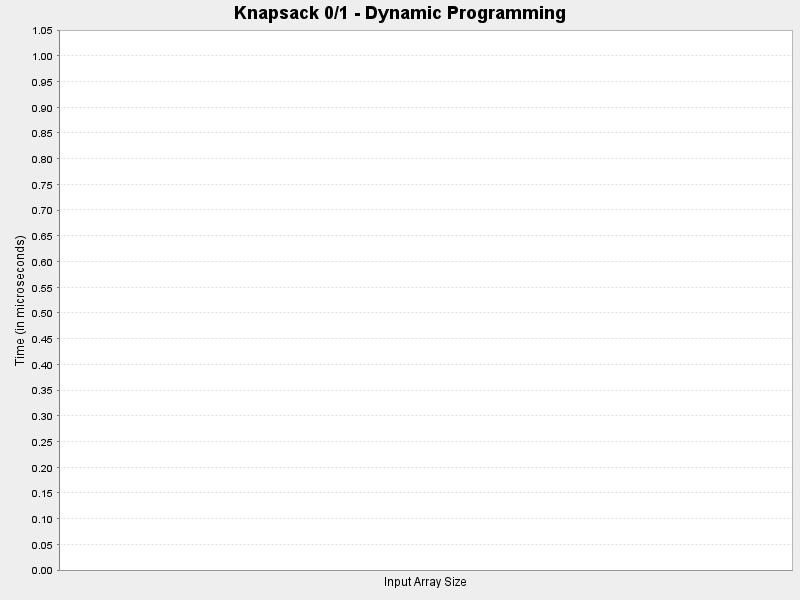
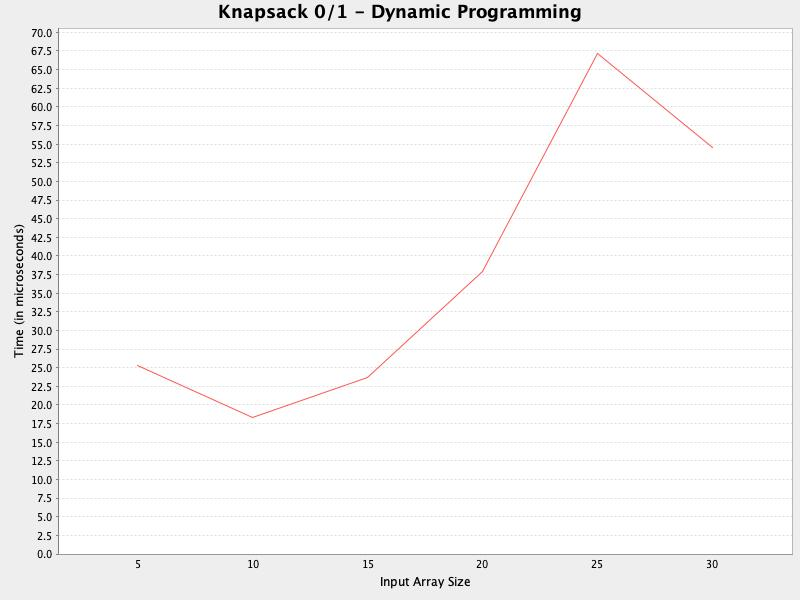
cleaned up a few inconsistencies in my brute force method, and added a test for my brute force method

diff --git a/src/FractionalKnapsack/Main.java b/src/FractionalKnapsack/Main.java
@@ -50,7 +50,7 @@ public class Main {
         times.add(FractionalKnapsack.BruteForce.knapSack(knapsack15.getValues(), knapsack15.getWeights(), knapsack15.getMaxWeight(), knapsack15.getTotalItems(), knapsack15.getKnapsackNumber()));
         times.add(FractionalKnapsack.BruteForce.knapSack(knapsack20.getValues(), knapsack20.getWeights(), knapsack20.getMaxWeight(), knapsack20.getTotalItems(), knapsack20.getKnapsackNumber()));
         times.add(FractionalKnapsack.BruteForce.knapSack(knapsack25.getValues(), knapsack25.getWeights(), knapsack25.getMaxWeight(), knapsack25.getTotalItems(), knapsack25.getKnapsackNumber()));
-        times.add(FractionalKnapsack.BruteForce.knapSack(knapsack5.getValues(), knapsack30.getWeights(), knapsack30.getMaxWeight(), knapsack30.getTotalItems(), knapsack30.getKnapsackNumber()));
+        times.add(FractionalKnapsack.BruteForce.knapSack(knapsack30.getValues(), knapsack30.getWeights(), knapsack30.getMaxWeight(), knapsack30.getTotalItems(), knapsack30.getKnapsackNumber()));
 
 
         //create line chart, clear the array list for the next set of times
@@ -68,7 +68,7 @@ public class Main {
         times.add(FractionalKnapsack.Greedy.knapSack(knapsack15.getValues(), knapsack15.getWeights(), knapsack15.getMaxWeight(), knapsack15.getTotalItems(), knapsack15.getKnapsackNumber()));
         times.add(FractionalKnapsack.Greedy.knapSack(knapsack20.getValues(), knapsack20.getWeights(), knapsack20.getMaxWeight(), knapsack20.getTotalItems(), knapsack20.getKnapsackNumber()));
         times.add(FractionalKnapsack.Greedy.knapSack(knapsack25.getValues(), knapsack25.getWeights(), knapsack25.getMaxWeight(), knapsack25.getTotalItems(), knapsack25.getKnapsackNumber()));
-        times.add(FractionalKnapsack.Greedy.knapSack(knapsack5.getValues(), knapsack30.getWeights(), knapsack30.getMaxWeight(), knapsack30.getTotalItems(), knapsack30.getKnapsackNumber()));
+        times.add(FractionalKnapsack.Greedy.knapSack(knapsack30.getValues(), knapsack30.getWeights(), knapsack30.getMaxWeight(), knapsack30.getTotalItems(), knapsack30.getKnapsackNumber()));
 
         //create line chart, clear the array list for the next set of times
         fracKGreedyChart.lineChart(times, "./images/fracK_greedy.jpg");
@@ -79,6 +79,12 @@ public class Main {
          */
 
         //TODO Mycole's method calls here
+        times.add(FractionalKnapsack.Dynamic.fractionalKnapsack(knapsack5.getValues(), knapsack5.getWeights(), knapsack5.getMaxWeight(), knapsack5.getKnapsackNumber()));
+        times.add(FractionalKnapsack.Dynamic.fractionalKnapsack(knapsack10.getValues(), knapsack10.getWeights(), knapsack10.getMaxWeight(), knapsack10.getKnapsackNumber()));
+        times.add(FractionalKnapsack.Dynamic.fractionalKnapsack(knapsack15.getValues(), knapsack15.getWeights(), knapsack15.getMaxWeight(), knapsack15.getKnapsackNumber()));
+        times.add(FractionalKnapsack.Dynamic.fractionalKnapsack(knapsack20.getValues(), knapsack20.getWeights(), knapsack20.getMaxWeight(), knapsack20.getKnapsackNumber()));
+        times.add(FractionalKnapsack.Dynamic.fractionalKnapsack(knapsack25.getValues(), knapsack25.getWeights(), knapsack25.getMaxWeight(), knapsack25.getKnapsackNumber()));
+        times.add(FractionalKnapsack.Dynamic.fractionalKnapsack(knapsack30.getValues(), knapsack30.getWeights(), knapsack30.getMaxWeight(), knapsack30.getKnapsackNumber()));
 
         fracKDPChart.lineChart(times, "./images/fracK_dp.jpg");
         times.clear();

diff --git a/src/FractionalKnapsack/Dynamic.java b/src/FractionalKnapsack/Dynamic.java
@@ -36,11 +36,22 @@ public class Dynamic {
         /**
          * Finds the maximum achievable value for the fractional knapsack problem.
          *
-         * @param items An array of Item objects representing the potential items for the knapsack.
+         * @param values An array of Item objects representing the potential items for the knapsack.
          * @param capacity The total weight capacity of the knapsack.
          * @return The maximum value that can be obtained within the weight constraint.
          */
-        public static double fractionalKnapsack(Item[] items, int capacity) {
+        public static double fractionalKnapsack(int[] values, int[] weights, int capacity, int knapsackNumber) {
+            System.out.println("------------Brute Force 01Knapsack for " + weights.length + " items------------");
+        System.out.println("Knapsack Number: " + knapsackNumber);
+        System.out.println("Values in this knapsack are: " + Arrays.toString(values));
+        System.out.println("Weights for this knapsack are: " + Arrays.toString(weights));
+
+        double startTime = System.nanoTime();
+            Item[] items = new Item[weights.length];
+
+            for(int x =0; x < weights.length; x++){
+                items[x] = new Item(values[x], weights[x]);
+            }
             // Sort items based on value-to-weight ratio in descending order
             Arrays.sort(items, Comparator.comparing((Item item) -> item.value / (double) item.weight).reversed());
 
@@ -60,10 +71,38 @@ public class Dynamic {
                 }
             }
 
-            return dp[numItems][capacity]; // Here we have the optimal value
+            double answer = dp[numItems][capacity];
+
+            double endTime = System.nanoTime();
+            double timeTaken = (endTime - startTime) / 1000;
+
+            System.out.println("~~~Solution~~~");
+        System.out.println("Max weight: " + capacity);
+        System.out.println("Total Weight = ");
+        System.out.println("Total Profit = ");
+        System.out.println();
+
+            return timeTaken; // Here we have the optimal value
         }
 
 
 
 
 }
+//System.out.println(“------------Brute Force 01Knapsack for ” + weights.length + ” items------------“);
+//        System.out.println(“Knapsack Number: ” + knapsackNumber);
+//        System.out.println(“Values in this knapsack are: ” + Arrays.toString(values));
+//        System.out.println(“Weights for this knapsack are: ” + Arrays.toString(weights));
+//        System.out.println(“~~~Solution~~~“);
+//        System.out.println(“Max weight: ” + capacity);
+//        System.out.println(“Total Weight = ” + totalWeight);
+//        System.out.println(“Total Profit = ” + totalValue);
+//        System.out.println();
+
+
+
+
+
+
+
+

diff --git a/src/Knapsack01/Dynamic.java b/src/Knapsack01/Dynamic.java
@@ -11,7 +11,10 @@ public class Dynamic {
      * @return The maximum value that can be achieved within the given weight limit.
      * @author Mycole Brown
      */
-    public static int knapSack(int W, int wt[], int val[], int n) {
+    public static double knapSack(int W, int wt[], int val[], int n) {
+
+        double startTime = System.nanoTime();
+
         // Table to store the maximum value that can be achieved using the first i items and weight j
         int dp[][] = new int[n + 1][W + 1];
 
@@ -28,11 +31,37 @@ public class Dynamic {
                     dp[i][w] = dp[i - 1][w];
             }
         }
-
         // The last cell of the table contains the answer
-        return dp[n][W];
+        int answer = dp[n][W];
+
+        double endTime = System.nanoTime();
+        double timeTaken = (endTime - startTime) / 1000;
+
+        return timeTaken;
     }
 
 
     }
+
+//    public static int knapSack(int W, int wt[], int val[], int n) {
+//        // Table to store the maximum value that can be achieved using the first i items and weight j
+//        int dp[][] = new int[n + 1][W + 1];
+//
+//        // Build the table dp[][] in bottom up manner
+//        for (int i = 0; i <= n; i++) {
+//            for (int w = 0; w <= W; w++) {
+//                if (i == 0 || w == 0)
+//                    dp[i][w] = 0; // Base case: no item or no capacity
+//                else if (wt[i - 1] <= w)
+//                    // Include the current item in the knapsack or exclude it
+//                    dp[i][w] = Math.max(val[i - 1] + dp[i - 1][w - wt[i - 1]], dp[i - 1][w]);
+//                else
+//                    // Can't include the current item due to weight constraints
+//                    dp[i][w] = dp[i - 1][w];
+//            }
+//        }
+//
+//        // The last cell of the table contains the answer
+//        return dp[n][W];
+//    }
 

diff --git a/src/FractionalKnapsack/Greedy.java b/src/FractionalKnapsack/Greedy.java
@@ -20,7 +20,7 @@ public class Greedy {
      */
     // Method to solve the fractional knapsack problem
     static double knapSack(int[] values, int[] weights, int maxWeight, int totalItems, int knapsackNumber) {
-        System.out.println("------------Brute Force 01Knapsack for " + weights.length + " items------------");
+        System.out.println("------------Greedy Fractional Knapsack for " + weights.length + " items------------");
         System.out.println("Knapsack Number: " + knapsackNumber);
         System.out.println("Values in this knapsack are: " + Arrays.toString(values));
         System.out.println("Weights in this knapsack are: " + Arrays.toString(weights));
@@ -59,10 +59,12 @@ public class Greedy {
         for (Item item : items) {
             if (usedCapacity + item.weight <= maxWeight) {
                 usedCapacity += item.weight;
+                totalWeight+= item.weight;
                 totalValue += item.value;
             } else {
                 double remainingCapacity = maxWeight - usedCapacity;
                 totalValue += item.value * (remainingCapacity / item.weight);
+                totalWeight += item.weight * (remainingCapacity / item.weight);
                 usedCapacity += remainingCapacity;
                 break;
             }

diff --git a/src/Knapsack01/Main.java b/src/Knapsack01/Main.java
@@ -73,6 +73,12 @@ public class Main {
 		 */
 
 		//TODO Mycole's method calls here
+		times.add(Dynamic.knapSack(knapsack5.getMaxWeight(), knapsack5.getWeights(), knapsack5.getValues(), knapsack5.getTotalItems()));
+		times.add(Dynamic.knapSack(knapsack5.getMaxWeight(), knapsack10.getWeights(), knapsack10.getValues(), knapsack10.getTotalItems()));
+		times.add(Dynamic.knapSack(knapsack5.getMaxWeight(), knapsack15.getWeights(), knapsack15.getValues(), knapsack15.getTotalItems()));
+		times.add(Dynamic.knapSack(knapsack5.getMaxWeight(), knapsack20.getWeights(), knapsack20.getValues(), knapsack20.getTotalItems()));
+		times.add(Dynamic.knapSack(knapsack5.getMaxWeight(), knapsack25.getWeights(), knapsack25.getValues(), knapsack25.getTotalItems()));
+		times.add(Dynamic.knapSack(knapsack5.getMaxWeight(), knapsack30.getWeights(), knapsack30.getValues(), knapsack30.getTotalItems()));
 
 		k01DPChart.lineChart(times, "./images/k01_dp.jpg");
 		times.clear();

diff --git a/src/FractionalKnapsack/BruteForce.java b/src/FractionalKnapsack/BruteForce.java
@@ -25,7 +25,7 @@ public class BruteForce {
      * @return - A double that represents the time complexity of the algorithm
      */
     static double knapSack(int[] values, int[] weights, int maxWeight, int totalItems, int knapsackNumber) {
-        System.out.println("------------Brute Force 01Knapsack for " + weights.length + " items------------");
+        System.out.println("------------Brute Force Fractional Knapsack for " + weights.length + " items------------");
         System.out.println("Knapsack Number: " + knapsackNumber);
         System.out.println("Values in this knapsack are: " + Arrays.toString(values));
         System.out.println("Weights in this knapsack are: " + Arrays.toString(weights));
